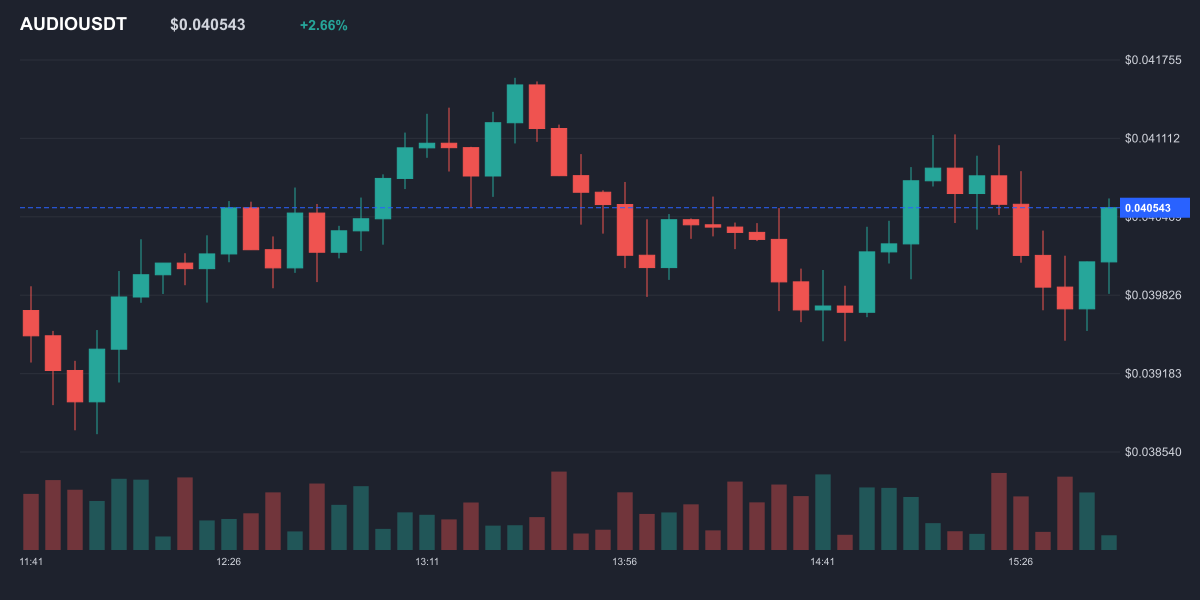
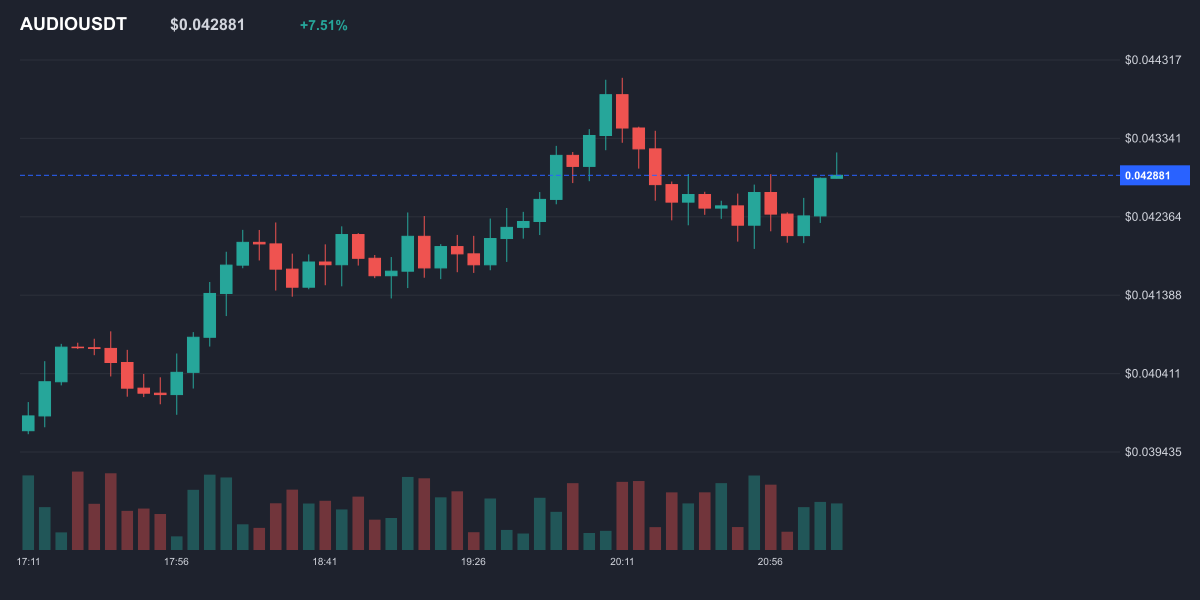
update chart

diff --git a/utils/candlestickCanvas.js b/utils/candlestickCanvas.js
@@ -66,9 +66,10 @@ class CandlestickChartGenerator {
         // Calculate volume range
         const maxVolume = Math.max(...candles.map(c => c.volume));
 
-        // Candle width
-        const candleWidth = (chartWidth / candles.length) * 0.7;
-        const candleSpacing = chartWidth / candles.length;
+        // Candle width - use 75% of chart for candles, leave 25% empty on right
+        const candleAreaWidth = chartWidth * 0.75; // 3/4 of chart width for candles
+        const candleWidth = (candleAreaWidth / candles.length) * 0.7;
+        const candleSpacing = candleAreaWidth / candles.length;
 
         // Draw grid lines
         this.drawGrid(ctx, chartWidth, chartHeight, minPrice - pricePadding, maxPrice + pricePadding);

diff --git a/utils/chartScreenshot.js b/utils/chartScreenshot.js
@@ -753,7 +753,7 @@ class ChartScreenshotService {
     // Method 1: Canvas-based Candlestick (FAST - 1-2 seconds, real candlesticks!)
     try {
       console.log(`🕯️ Generating canvas candlestick chart for ${symbol}...`);
-      const candles = await this.getBinanceCandles(symbol, timeframe, 50);
+      const candles = await this.getBinanceCandles(symbol, timeframe, 35);
 
       if (candles.length === 0) {
         throw new Error("No candle data available from Binance");